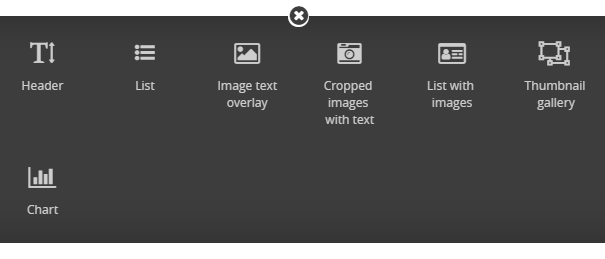
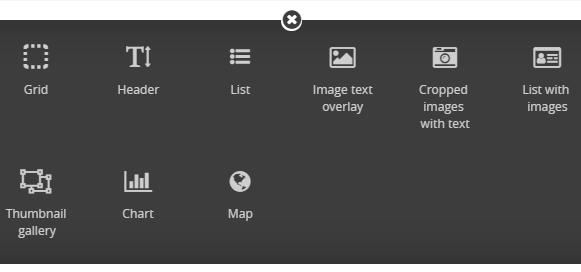
Added "Map" block

diff --git a/wagtail_blocks/templates/wagtail_blocks/admin_blocks/map.html b/wagtail_blocks/templates/wagtail_blocks/admin_blocks/map.html
@@ -1,0 +1,67 @@
+{% load wagtailcore_tags %}
+
+<div class="{{ classname }}">
+    {% if help_text %}
+        <div class="object-help help">{{ help_text }}</div>
+    {% endif %}
+    <ul class="fields">
+        {% for child in children.values %}
+            <li{% if child.block.required %} class="required" {% else %} hidden {% endif %}>
+                {% if child.block.label %}
+                    <label{% if child.id_for_label %}
+                        for="{{ child.id_for_label }}"{% endif %}>{{ child.block.label }}:</label>
+                    {{ child.render_form }}
+                {% endif %}
+            </li>
+        {% endfor %}
+        <li>
+            <div id="{{ prefix }}" style="height: 400px; z-index:0;">
+            </div>
+        </li>
+    </ul>
+</div>
+
+<script>
+    {
+        let marker_title = $('#{{ prefix }}-marker_title')[0];
+        let current_zoom_level = $('#{{ prefix }}-zoom_level')[0];
+        let center_x = $('#{{ prefix }}-location_x')[0];
+        let center_y = $('#{{ prefix }}-location_y')[0];
+        let marker_x = $('#{{ prefix }}-marker_x')[0];
+        let marker_y = $('#{{ prefix }}-marker_y')[0];
+
+        let mymap = L.map('{{ prefix }}').setView([center_x.value, center_y.value], current_zoom_level.value);
+
+        L.tileLayer('https://{s}.tile.openstreetmap.org/{z}/{x}/{y}.png', {
+            maxZoom: 18,
+            attribution:
+                '<a href="https://github.com/ibrahimawadhamid/wagtail_blocks">Wagtail Blocks</a> ' +
+                'Map data &copy; <a href="https://www.openstreetmap.org/">OpenStreetMap</a> contributors, ',
+            id: 'mapbox.streets'
+        }).addTo(mymap);
+
+        let myMarker = L.marker([marker_x.value, marker_y.value], {draggable: true}).addTo(mymap)
+            .bindPopup("" +
+                "<b>" + marker_title.value + "</b>" +
+                "<br />Marker Description.<br />'This will be updated after you save changes.'").openPopup();
+
+        function onMapZoom(e) {
+            current_zoom_level.value = mymap.getZoom();
+        }
+
+        function onMapMove(e) {
+            center_x.value = mymap.getCenter().lat;
+            center_y.value = mymap.getCenter().lng;
+        }
+
+        function onMarkerMove(e) {
+            marker_x.value = e.latlng.lat;
+            marker_y.value = e.latlng.lng;
+        }
+
+        mymap.on('zoomend', onMapZoom);
+        mymap.on('moveend', onMapMove);
+        myMarker.on('move', onMarkerMove);
+    }
+
+</script>

diff --git a/wagtail_blocks/templates/wagtail_blocks/map.html b/wagtail_blocks/templates/wagtail_blocks/map.html
@@ -1,0 +1,50 @@
+{% load wagtailcore_tags %}
+{% load static from staticfiles %}
+{% load wagtail_html_support %}
+
+<link rel="stylesheet" href="https://unpkg.com/leaflet@1.4.0/dist/leaflet.css"
+      integrity="sha512-puBpdR0798OZvTTbP4A8Ix/l+A4dHDD0DGqYW6RQ+9jxkRFclaxxQb/SJAWZfWAkuyeQUytO7+7N4QKrDh+drA=="
+      crossorigin=""/>
+
+<!-- Make sure you put this AFTER Leaflet's CSS -->
+<script src="https://unpkg.com/leaflet@1.4.0/dist/leaflet.js"
+        integrity="sha512-QVftwZFqvtRNi0ZyCtsznlKSWOStnDORoefr1enyq5mVL4tmKB3S/EnC3rRJcxCPavG10IcrVGSmPh6Qw5lwrg=="
+        crossorigin=""></script>
+
+
+<div class="container">
+    <div class="row">
+        <div class="col-12">
+            <div id="{{ block_id }}" style="height: 400px; width: 100%; margin-bottom: 20px;"></div>
+        </div>
+    </div>
+</div>
+
+
+<script>
+    {
+        let current_zoom_level = {{ value.zoom_level }};
+        let center_x = {{ value.location_x }};
+        let center_y = {{ value.location_y }};
+        let marker_x = {{ value.marker_x }};
+        let marker_y = {{ value.marker_y }};
+        let marker_title = '{{ value.marker_title }}';
+        let marker_description = '{{ value.marker_description|resolve_html|richtext }}';
+
+        var mymap = L.map('{{ block_id }}').setView([center_x, center_y], current_zoom_level);
+
+        L.tileLayer('https://{s}.tile.openstreetmap.org/{z}/{x}/{y}.png', {
+            maxZoom: 18,
+            attribution:
+                '<a href="https://github.com/ibrahimawadhamid/wagtail_blocks">Wagtail Blocks</a> ' +
+                'Map data &copy; <a href="https://www.openstreetmap.org/">OpenStreetMap</a> contributors, ',
+            id: 'mapbox.streets'
+        }).addTo(mymap);
+
+        L.marker([marker_x, marker_y]).addTo(mymap)
+            .bindPopup("" +
+                "<b>" + marker_title + "</b>" +
+                "<br/>" + marker_description + "<br/>").openPopup();
+    }
+
+</script>

diff --git a/wagtail_blocks/blocks.py b/wagtail_blocks/blocks.py
@@ -1,4 +1,7 @@
 import json
+
+from django import forms
+
 try:
     from wagtail.wagtailcore import blocks
     from wagtail.wagtailimages.blocks import ImageChooserBlock
@@ -187,3 +190,26 @@ class ChartBlock(blocks.StructBlock):
     class Meta:
         template = 'wagtail_blocks/chart.html'
         icon = 'fa-bar-chart'
+
+
+class MapBlock(blocks.StructBlock):
+    marker_title = blocks.CharBlock(max_length=120,
+                                    default="Marker Title 'This will be updated after you save changes.'")
+    marker_description = blocks.RichTextBlock()
+    zoom_level = blocks.IntegerBlock(min_value=0, max_value=18, default='2', required=False)
+    location_x = blocks.FloatBlock(default='35.0', required=False)
+    location_y = blocks.FloatBlock(default='0.16', required=False)
+    marker_x = blocks.FloatBlock(default='51.5', required=False)
+    marker_y = blocks.FloatBlock(default='-0.09', required=False)
+
+    @property
+    def media(self):
+        return forms.Media(
+            js=["https://unpkg.com/leaflet@1.4.0/dist/leaflet.js"],
+            css={'all': ["https://unpkg.com/leaflet@1.4.0/dist/leaflet.css"]}
+        )
+
+    class Meta:
+        form_template = 'wagtail_blocks/admin_blocks/map.html'
+        template = 'wagtail_blocks/map.html'
+        icon = "fa-globe"

diff --git a/wagtail_blocks/templatetags/wagtail_html_support.py b/wagtail_blocks/templatetags/wagtail_html_support.py
@@ -1,0 +1,20 @@
+"""
+  When editing the content use the brackets:
+  [[ <iframe>..</iframe> ]]
+  And after, use it in templates like this:
+  {{ page.body|resolve_html|richtext }}
+"""
+from django import template
+
+register = template.Library()
+
+
+@register.filter
+def resolve_html(value):
+    temp = str(value).splitlines()
+    new_string = ''.join([str(x) for x in temp])
+    new = new_string.replace('<p>[[', '')
+    new = new.replace(']]</p>', '')
+    new = new.replace('&lt;', '<')
+    new = new.replace('&gt;', '>')
+    return new

diff --git a/wagtail_blocks/__init__.py b/wagtail_blocks/__init__.py
@@ -1,1 +1,1 @@
-__version__ = "0.5.3"
+__version__ = "0.6.0"

diff --git a/docs/index.md b/docs/index.md
@@ -12,7 +12,9 @@ A Collection of awesome Wagtail CMS stream-field blocks and Charts.
 ![wagtail](https://img.shields.io/badge/Wagtail-1.x|2.x-green.svg) ![Python](https://img.shields.io/pypi/pyversions/wagtail-blocks.svg) ![Boostrap](https://img.shields.io/badge/Bootstrap-4.3-blue.svg)
 
 ## Available Blocks
-Check Showcase for [Standard Blocks](https://wagtail-blocks.readthedocs.io/en/latest/showcase/standard-blocks/) or [Charts](https://wagtail-blocks.readthedocs.io/en/latest/showcase/charts/)
+Check Showcase for [Standard Blocks](https://wagtail-blocks.readthedocs.io/en/latest/showcase/standard-blocks/) 
+or [Charts](https://wagtail-blocks.readthedocs.io/en/latest/showcase/chart/)
+or [Maps](https://wagtail-blocks.readthedocs.io/en/latest/showcase/map/)
 ![streamfield](showcase/screenshots/streamfield.PNG)
 
 > - Header (H1, H2, H3, H4, H5, H6)
@@ -22,3 +24,4 @@ Check Showcase for [Standard Blocks](https://wagtail-blocks.readthedocs.io/en/la
 > - List with Images and Links
 > - Thumbnail Gallery
 > - Chart (Bar - Pie - Line - Area - Radar)
+> - Map (Marker with rich text description)

diff --git a/README.md b/README.md
@@ -51,7 +51,9 @@ class HomePage(Page):
 ```
 
 ## Available Blocks
-Check Showcase for [Standard Blocks](https://wagtail-blocks.readthedocs.io/en/latest/showcase/standard-blocks/) or [Charts](https://wagtail-blocks.readthedocs.io/en/latest/showcase/charts/)
+Check Showcase for [Standard Blocks](https://wagtail-blocks.readthedocs.io/en/latest/showcase/standard-blocks/) 
+or [Charts](https://wagtail-blocks.readthedocs.io/en/latest/showcase/chart/)
+or [Maps](https://wagtail-blocks.readthedocs.io/en/latest/showcase/map/)
 ![streamfield](https://wagtail-blocks.readthedocs.io/en/latest/showcase/screenshots/streamfield.PNG)
  
 > - Header (H1, H2, H3, H4, H5, H6)
@@ -61,6 +63,7 @@ Check Showcase for [Standard Blocks](https://wagtail-blocks.readthedocs.io/en/la
 > - List with Images and Links
 > - Thumbnail Gallery
 > - Chart (Bar - Pie - Line - Area - Radar)
+> - Map (Marker with rich text description)
 
 ## Supported Versions
 > - Python 2 & 3

diff --git a/docs/showcase/chart.md b/docs/showcase/chart.md
@@ -1,0 +1,42 @@
+All Charts support multiple datasets!
+
+### Bar Chart
+![bar](screenshots/advanced-blocks/chart/bar.PNG)
+
+---
+
+### Line Chart
+![line](screenshots/advanced-blocks/chart/line.PNG)
+
+---
+
+### Pie Chart
+![bar](screenshots/advanced-blocks/chart/pie.PNG)
+
+---
+
+### Radar Chart
+![bar](screenshots/advanced-blocks/chart/radar.PNG)
+
+---
+
+### Polar Area Chart
+![bar](screenshots/advanced-blocks/chart/polar-area.PNG)
+
+---
+
+### Doughnut Chart
+![bar](screenshots/advanced-blocks/chart/doughnut.PNG)
+
+---
+
+### Horizontal Chart
+![bar](screenshots/advanced-blocks/chart/horizontal-bar.PNG)
+
+---
+
+### Multiple Datasets
+support for all chart types not only bar!
+![bar](screenshots/advanced-blocks/chart/multiple-datasets.PNG)
+
+---

diff --git a/docs/showcase/map.md b/docs/showcase/map.md
@@ -1,0 +1,7 @@
+### Map Block
+- #### Wagtail admin view
+    ![map-use](screenshots/advanced-blocks/map/MapBlock-use.PNG)
+- #### Template view
+    ![map-view](screenshots/advanced-blocks/map/MapBlock-view.PNG)
+    
+---
